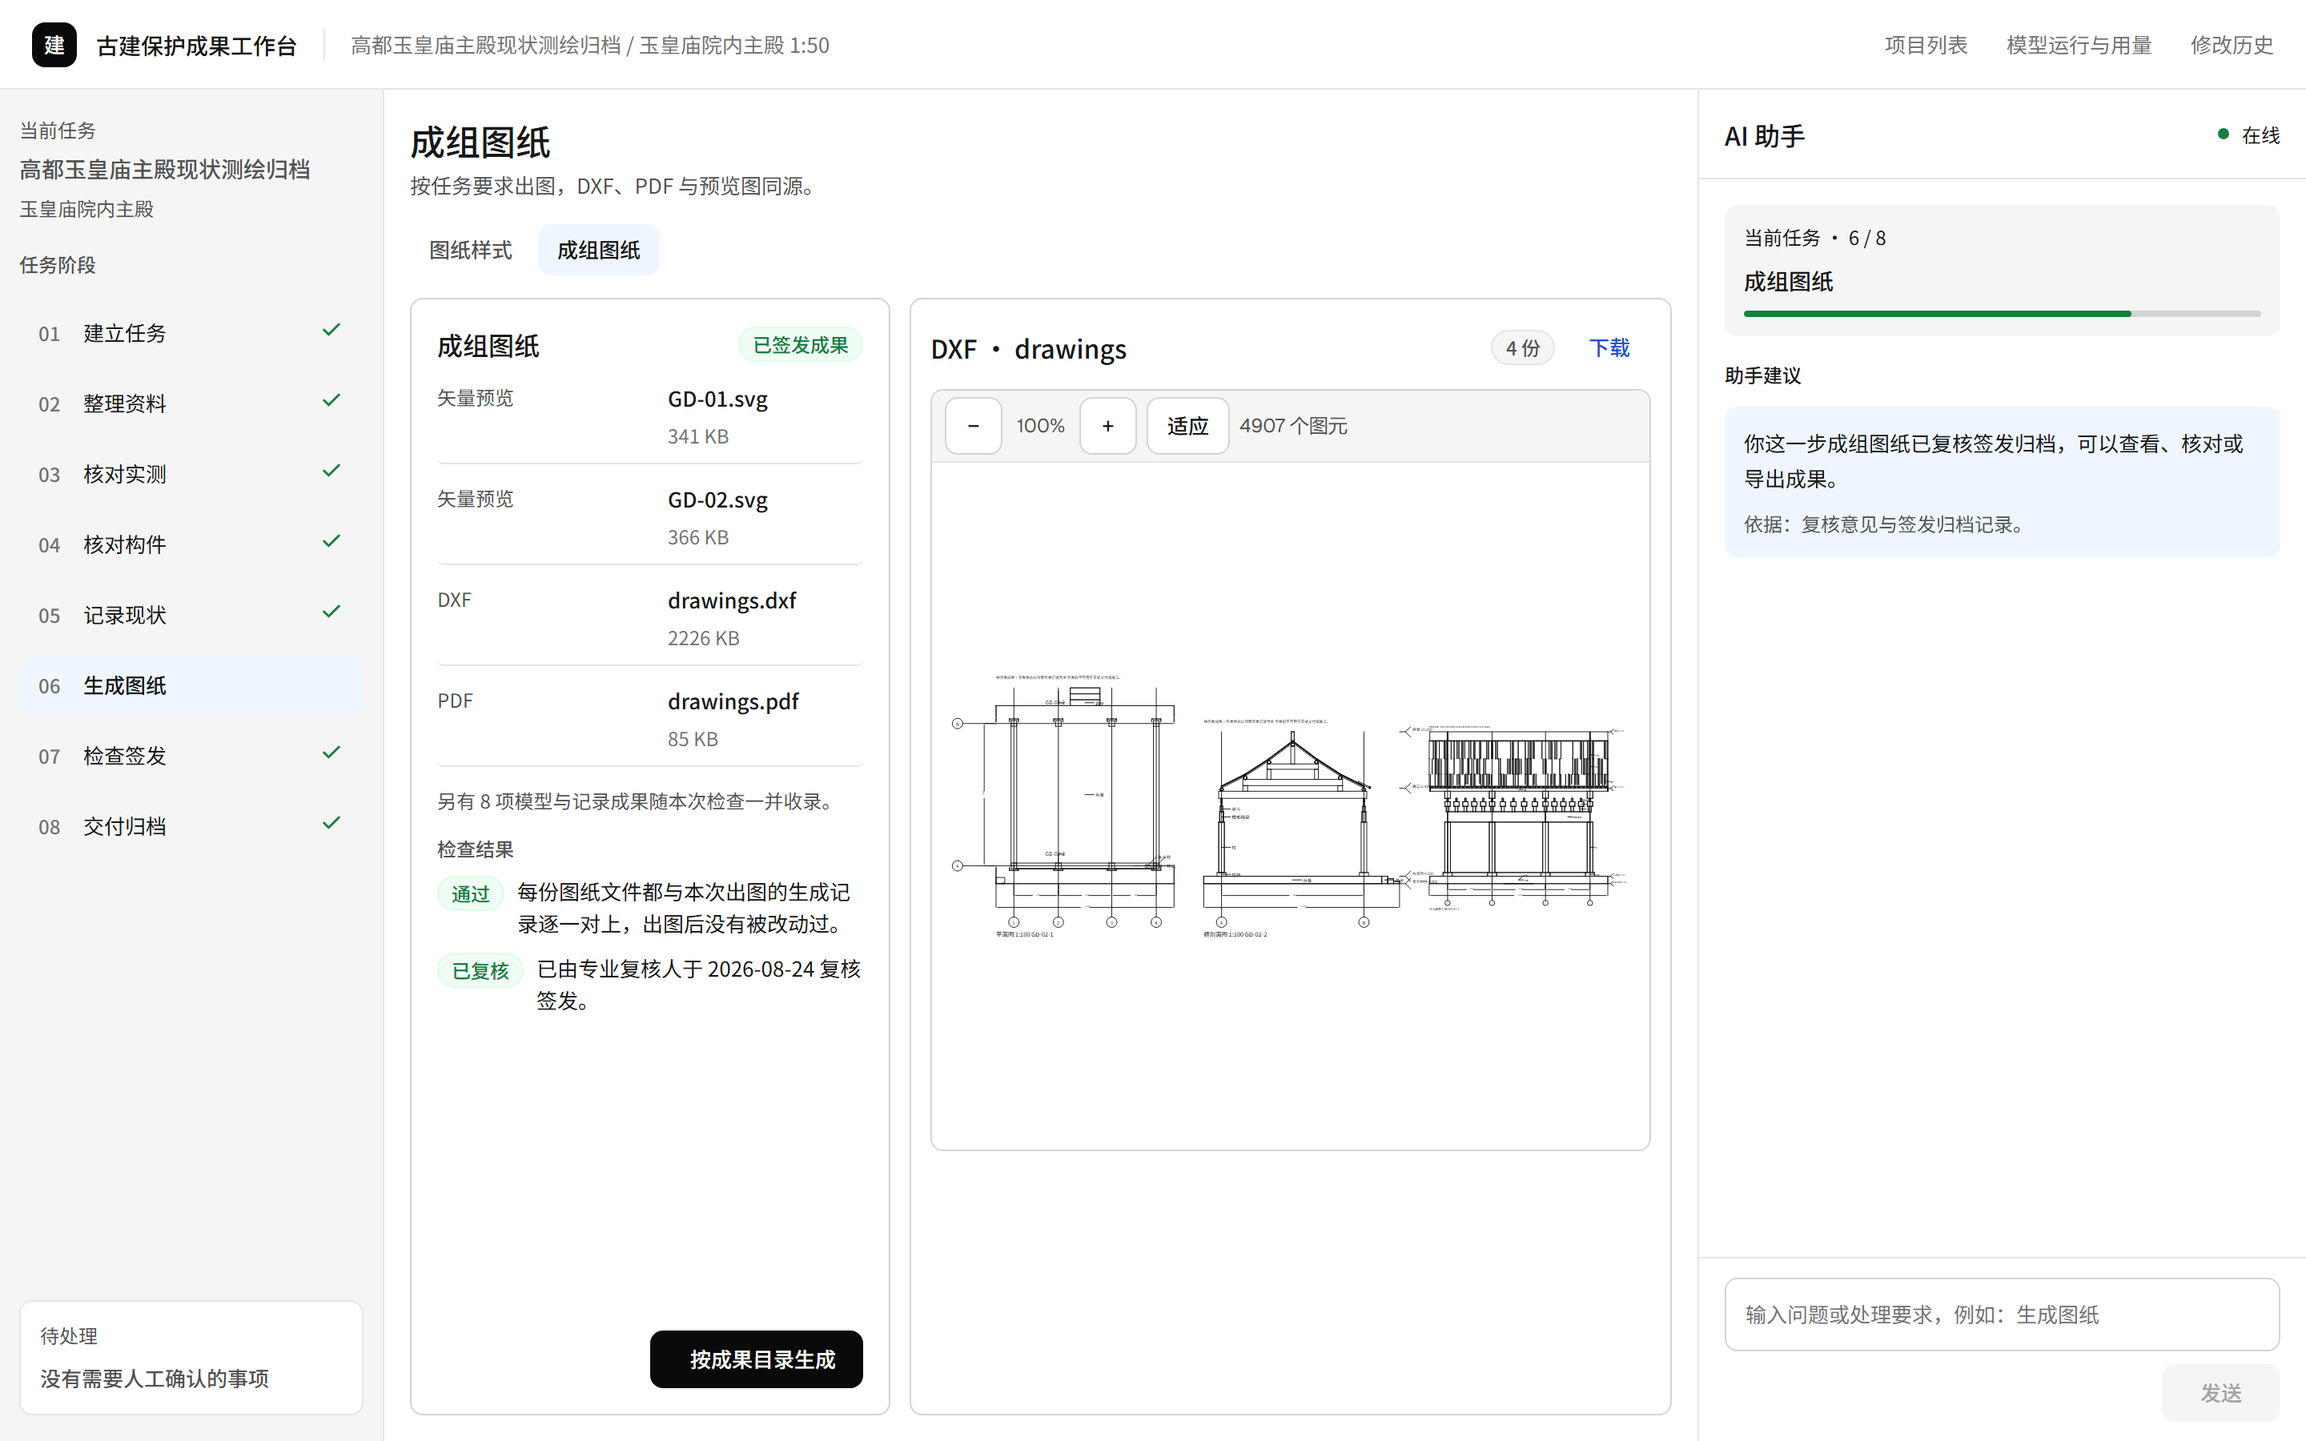
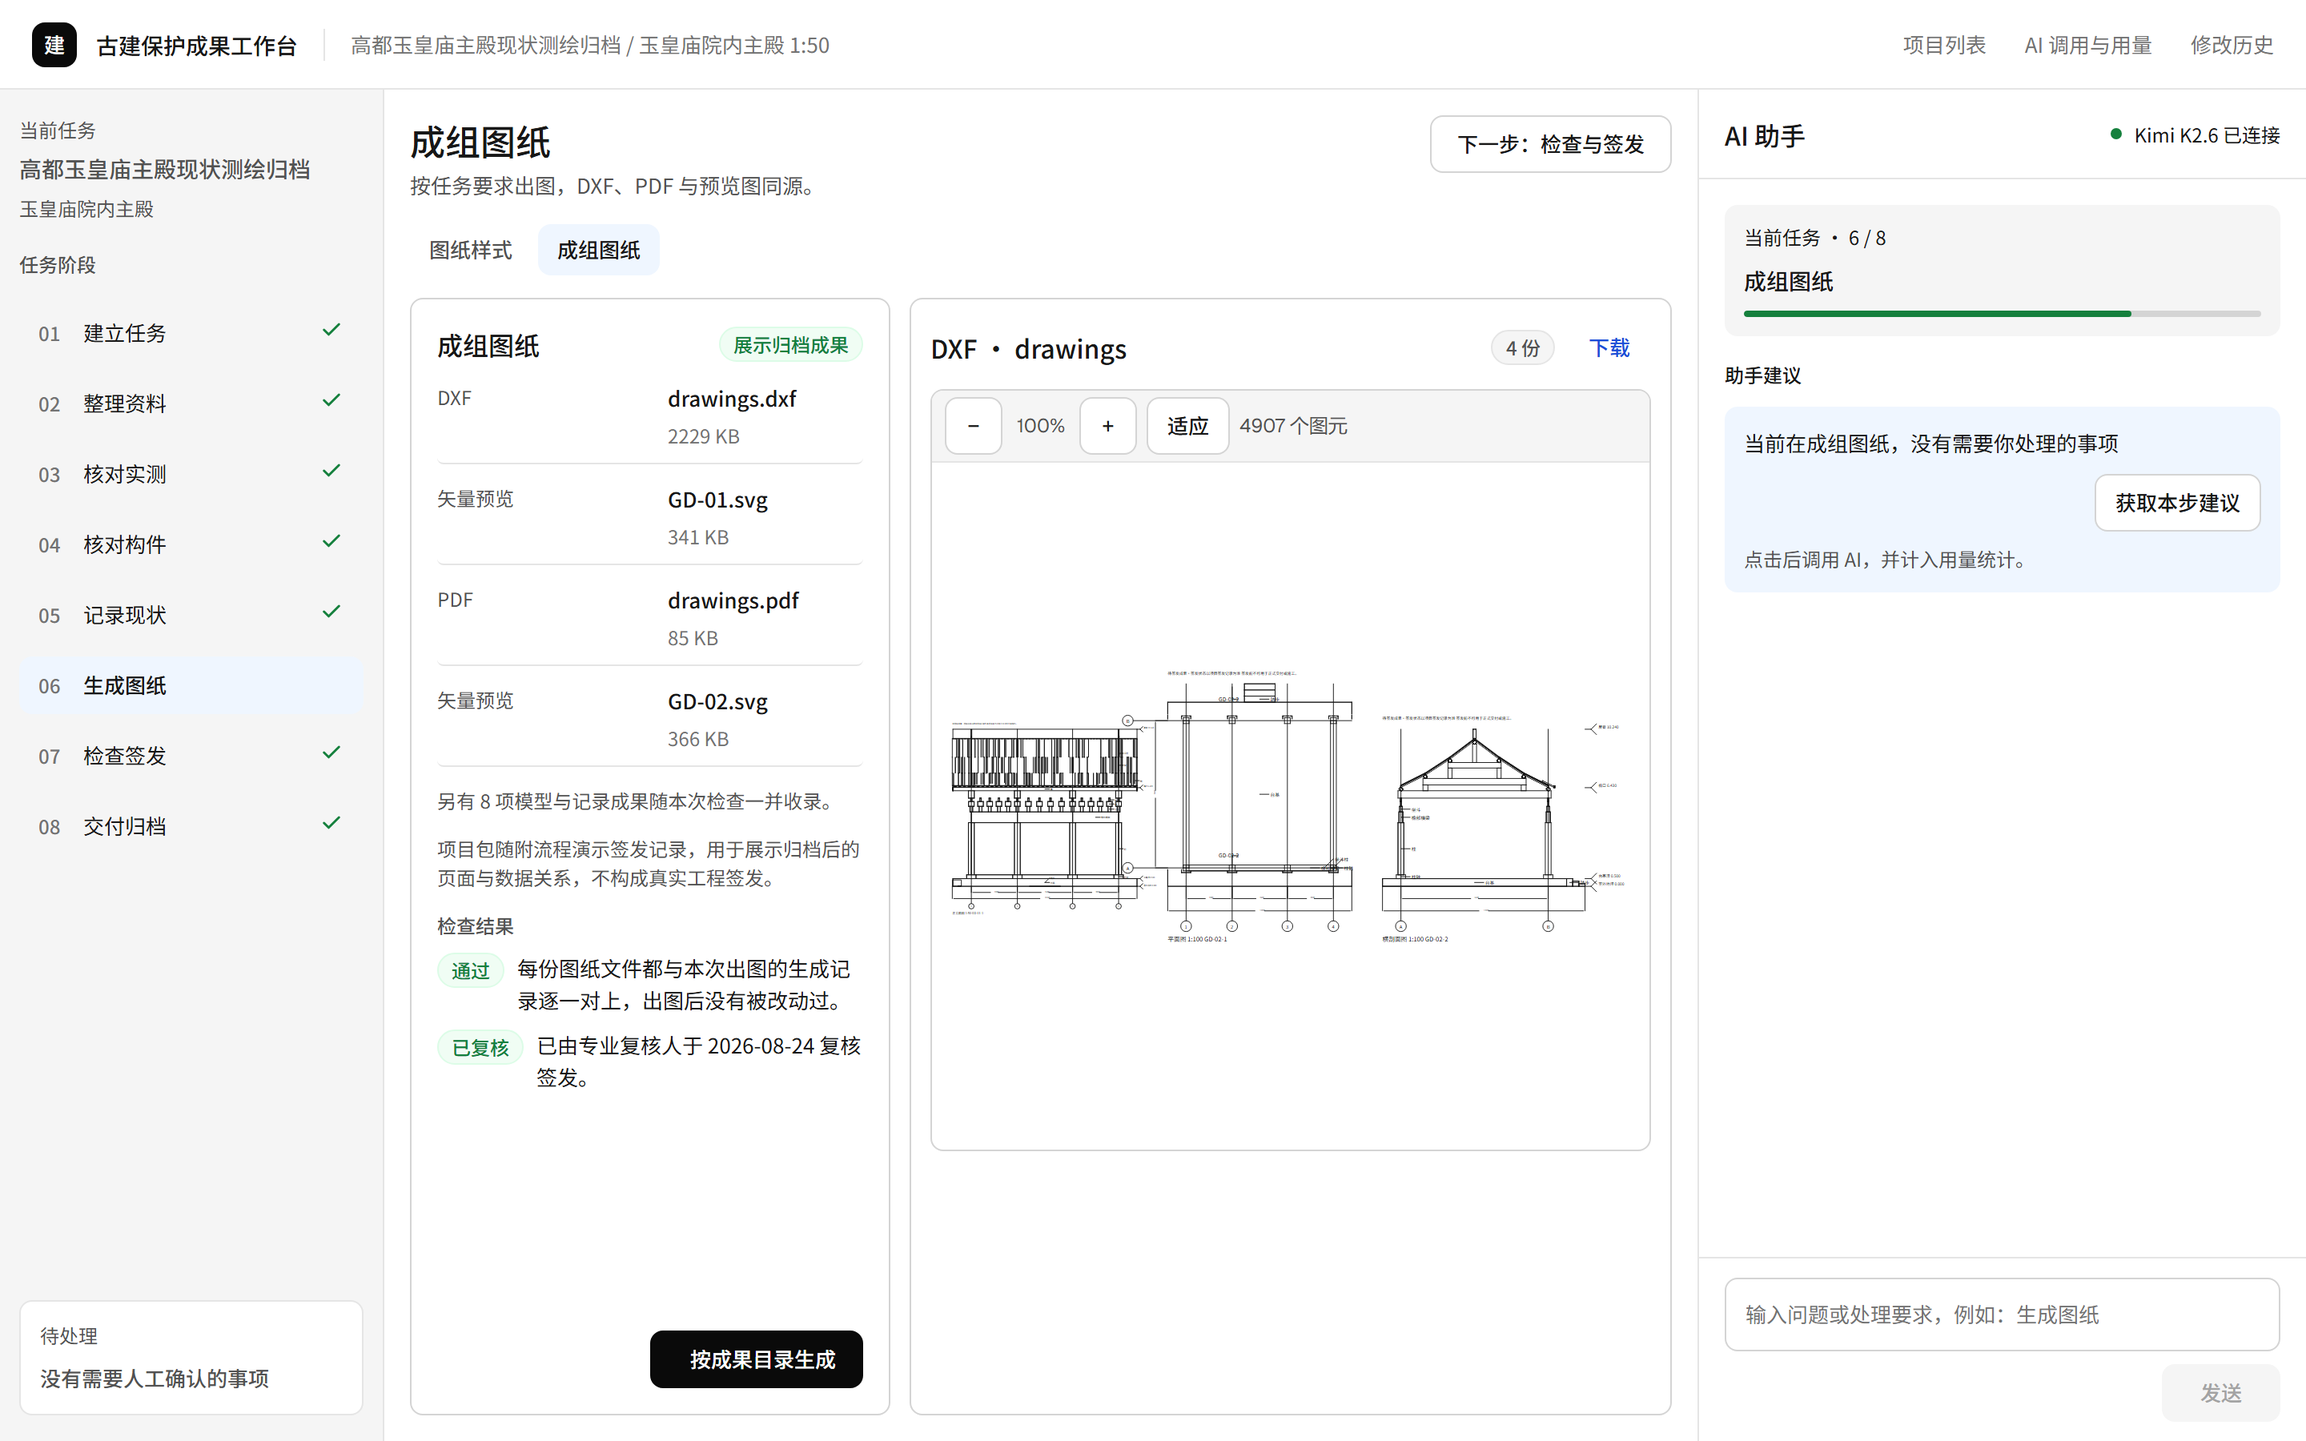
docs(product): 完成首次体验验证与README截图

diff --git a/packages/infrastructure/src/impact-real-packages.test.ts b/packages/infrastructure/src/impact-real-packages.test.ts
@@ -155,5 +155,5 @@ describe("依赖边字段恒为空（验收第 14 条）", () => {
     };
     walk(root);
     expect(hits, "依赖边只能推导，不能写入").toEqual([]);
-  });
+  }, 10_000);
 });

diff --git a/文档/05_验证证据/18_成功归档与用语层/首次使用与README复核.md b/文档/05_验证证据/18_成功归档与用语层/首次使用与README复核.md
@@ -1,0 +1,104 @@
+# 首次使用与 README 复核
+
+本轮复核确认，线上展示已能让第一次使用的测绘与文保成果生产人员理解产品用途，并沿高都项目完成从资料到归档的八阶段体验；展示数据与真实工程责任边界已在关键页面明确分开。
+
+日期：2026-08-25。线上地址：<https://heritage.jiajiajiang.com/>。验证版本：`a2fe50c`，分支 `codex/professional-workbench-rebuild`。
+
+## 一、核验依据
+
+本轮以核心 PRD 的目标用户、产品目标、当前范围和非目标为判断基准，不以页面是否能打开代替产品验收。
+
+| 判断项 | 依据 | 首次用户应得到的认识 |
+|---|---|---|
+| 目标用户 | 核心 PRD 2.1 | 产品服务于古建测绘、文保勘察和成果生产人员 |
+| 产品目标 | 核心 PRD 2.5 | 一栋建筑形成一份连续档案，同一份数据驱动模型、图纸、检查和归档 |
+| 责任关系 | 核心 PRD 3.4、4.5 | AI 提供理解与候选，程序生成确定性成果，专业人员确认和签发 |
+| 当前范围 | 核心 PRD 3.1 | 单栋建筑、本机单用户、完整成果生产链路 |
+| 非目标 | 核心 PRD 3.2 | 不代替现场测量、专业判断、法定签发或多人项目平台 |
+
+## 二、验证方法
+
+本轮同时使用自动巡检、真实线上操作和独立首次用户复查，避免只在开发环境或已有本机数据的浏览器中检查。
+
+1. 使用全新 Chrome 用户目录访问线上站点，等待两个展示项目首次装载。
+2. 从高都项目的建立任务开始，依次进入整理资料、核对实测、核对构件、记录现状、生成图纸、检查签发和交付归档。
+3. 实际打开照片、三维模型、DXF 和 PDF，并翻到 PDF 第二页。
+4. 先被动浏览，确认不会自动调用模型；再主动获取建议、提问通面阔，并查看 token 与费用变化。
+5. 抽查清式大木构造样板的结构化资料、完成状态和问题数量。
+6. 由独立产品设计验收角色使用另一份全新浏览器状态复查项目首页，不读取实现代码。该浏览器连接在进入项目后中断，因此项目内部结论以全新 Chrome 自动巡检和用户可见 Chrome 的逐项操作为准，不把本次独立复查表述为完整项目验收。
+
+## 三、首次使用结论
+
+第一次使用者现在可以从项目列表直接理解产品服务对象、主要输入、处理过程和结果，不必先阅读 PRD 才能开始。
+
+| 用户问题 | 页面给出的答案 | 结果 |
+|---|---|---|
+| 这是给谁用的 | 项目列表说明面向古建测绘与文保成果生产人员 | 通过 |
+| 产品处理什么 | 资料、实测、模型、图纸和归档成果处于同一条可追溯流程 | 通过 |
+| 从哪里开始 | 高都项目卡提供进入任务，进入后默认停在建立任务 | 通过 |
+| 下一步做什么 | 左侧八阶段与页面顶部下一步按钮共同提示 | 通过 |
+| 是否为真实工程数据 | 项目列表、任务卡、检查签发和归档页均说明展示数据边界 | 通过 |
+| 谁承担专业责任 | 本机不能签发；随包记录明确为流程演示记录，不构成真实工程签发 | 通过 |
+| 能得到什么结果 | 可查看三维模型、SVG、DXF、PDF、检查记录和成果包 | 通过 |
+
+首次装载增加了清单先显示、分包载入、单包重试、缺失项目自动补载和非破坏性继续载入入口。短暂下载失败时保留已成功装载的项目，只补齐缺少的项目，不再要求用户清空本机数据。
+
+全新 Chrome 实测中，两个项目的名称、规模和数据边界在 5.2 秒出现，高都项目在 55.4 秒可进入，两个完整项目在 127.4 秒载入完毕。首次项目包约 42 MB，当前体验已经从全量等待改为先理解范围、再分步进入，但首次完整载入仍偏慢。后续应拆分模型与图纸资源，并使用对象存储或 CDN 按需加载。
+
+## 四、PRD 一致性
+
+展示项目能够表达 PRD 的核心价值，但不会把当前验证范围包装成已经具备生产系统责任。
+
+| PRD 主张 | 可见体验 | 结果 |
+|---|---|---|
+| 一栋建筑一份档案 | 同一项目贯穿任务、资料、尺寸、构件、模型、图纸与归档 | 通过 |
+| 同一数据驱动多种成果 | 9600 mm 实测记录、三维模型、图纸与成果清单连续出现 | 通过 |
+| 来源可追溯 | 尺寸显示资料、测量方法和确认状态；构件显示具体资料名称 | 通过 |
+| AI、程序与人工分工 | 助手按项目记录回答；程序生成模型和图纸；签发按钮在本机禁用 | 通过 |
+| 文件直接查看 | 图片、SVG、DXF 与 PDF 均在页内查看，PDF 支持翻页 | 通过 |
+| 修改可追踪 | 修改历史显示操作人、动作、写入数量和下游影响 | 通过 |
+| 不代替真实工程责任 | 展示归档明确不可用于工程交付，不显示使用限制为无 | 通过 |
+
+## 五、AI 与用量核验
+
+AI 功能已证明是受用户控制的真实模型调用，不是固定文案或被动页面请求。
+
+- 被动浏览八阶段时，建议调用数保持为 0。
+- 点击获取本步建议后，建议次数增加 1。
+- 提问项目通面阔后，助手根据项目尺寸记录回答 9600 mm，并说明依据。
+- AI 调用与用量页显示模型 `kimi-k2.6`、真实调用次数、token 用量与估算费用。
+- 页面说明服务器当日汇总和项目内运行明细的统计范围，费用按公开单价估算。
+
+当前用量页是服务器当日汇总，不是访问者会话账单。该限制已在页面说明，后续若进入多人生产环境，应改为按组织、项目和调用主体分账。
+
+## 六、README 与截图
+
+README 已按专业开源产品的阅读顺序重组，先说明定位、在线体验和主要结果，再提供首次路径、特色能力、边界、架构、运行与文档入口。
+
+参考样本均为官方 GitHub 仓库：[Dify](https://github.com/langgenius/dify)、[AppFlowy](https://github.com/AppFlowy-IO/AppFlowy)、[Plane](https://github.com/makeplane/plane)、[Immich](https://github.com/immich-app/immich)。可迁移的共同做法是把一句话定位、在线入口和结果截图前置，把安装、架构、范围、安全与许可放在后续章节。
+
+最终截图统一使用英文序号文件名，文件名描述功能，不使用页面内部编号。
+
+| 文件 | 证明的产品能力 |
+|---|---|
+| `01-project-overview.png` | 目标用户、产品价值、两个展示项目与数据边界 |
+| `02-survey-data-traceability.png` | 实测记录、照片、确认状态与形制基准 |
+| `03-traceable-3d-model.png` | 构件化三维模型与对象树 |
+| `04-in-browser-dxf-viewer.png` | DXF 页内查看与图元统计 |
+| `05-review-and-signoff.png` | 自动检查、流程演示签发与真实责任边界 |
+| `06-deliverable-archive.png` | 多格式成果、来源说明和展示归档 |
+| `07-grounded-ai-assistant.png` | 助手按项目记录回答 9600 mm |
+| `08-ai-token-usage-and-cost.png` | 真实调用、token 与估算费用 |
+| `09-audit-history-and-impact.png` | 修改历史与下游影响范围 |
+
+## 七、当前边界
+
+当前版本可以用于完整产品展示和单机流程验证，但不能作为真实工程生产系统对外承诺。
+
+- 展示实测值用于产品体验，不替代现场实测。
+- 流程演示签发记录只说明展示链路完成，不构成真实工程签发或交付资格。
+- 浏览器本机项目库不支持多人实时协作、组织权限或服务端统一档案管理。
+- 生产环境需要补充身份、权限、服务端项目库、数字签名和正式责任流程。
+- 当前展示包首次完整载入约 42 MB，弱网环境下仍可能等待较长时间。
+
+最终全新浏览器巡检覆盖两个项目共 26 个页面，页面异常 0、空页面 0、控制台错误 0。独立角色完成了项目首页的首次理解复查；项目内部的最终验收由全新 Chrome 巡检和用户可见 Chrome 操作共同完成。

diff --git a/文档/04_实施单元/09_成功归档与用语层/验收.md b/文档/04_实施单元/09_成功归档与用语层/验收.md
@@ -6,7 +6,7 @@
 
 | 序 | 条件 | 结果 |
 |---:|---|---|
-| 1 | 三个演示项目打开后：缺失资料 0、未关闭问题 0、模型未知项 0、检查全部通过、交付带复核签发记录、成果状态显示为已签发可正式交付 | **通过**，三个演示包缺失资料 0、未关闭问题 0、检查通过、带正式环境复核签发记录（`check-demo-packages` 输出见证据 `18_成功归档与用语层/实测记录.md` 第二节）；高都与 Dai Loy 模型待确认部位 0。**与条件原文不同**：构造样板模型保留 909 条构件级翻译近似说明，由签发记录逐项接受，界面显示为建模说明（复核已接受），不再作为待确认项。把翻译近似改写成零需要重做几何契约，签发记录如实接受比抹掉更诚实 |
+| 1 | 三个演示项目打开后：缺失资料 0、未关闭问题 0、模型未知项 0、检查全部通过、交付带复核签发记录、成果状态显示为已签发可正式交付 | **通过后修订展示口径**，三个演示包缺失资料 0、未关闭问题 0、检查通过，并带正式构建环境生成的签发记录（`check-demo-packages` 输出见证据 `18_成功归档与用语层/实测记录.md` 第二节）。2026-08-25 首次使用复核发现，展示数据与可正式交付并列会造成责任边界冲突，因此界面改为流程演示签发记录、展示流程已归档和不可用于工程交付。构造样板模型保留 909 条构件级翻译近似说明，由随包记录逐项接受，界面显示为建模说明，不再作为待确认项。 |
 | 2 | 项目列表顺序为高都、团队样板、Dai Loy，三张卡都有封面 | **通过**，列表顺序高都、构造样板、Dai Loy（按项目建立日期升序）；高都与 Dai Loy 封面为现场照片，构造样板封面为第一张图纸 SVG（截图 `17_十九屏重做/截图/P01_项目列表.png`） |
 | 3 | 高都的实测记录有测量人、日期、仪器、方法，数值与照片比例一致，资料里注明演示设定值 | **通过**，`03_公开实测样本/高都玉皇庙/现场实测记录.csv` 28 条，逐条有部位、数值、仪器、方法、测量人、记录人、日期；表尾与资料权利声明注明演示设定值；数值与照片比例一致（柱高 3400、明间 3600、脊高 7200 等沿用照片比例推算值并升为实测口径） |
 | 4 | 本机新建项目仍不能签发：命令服务拒绝本机环境的签发记录，界面没有签发入口 | **通过**，`LocalAuthorization` 拒绝 `RecordReviewSignoff`（`authorization.test.ts`）；界面上签发按钮为禁用态并注明签发须在正式环境完成；演示包构建走 `FormalEnvironmentAuthorization`，仅 `tools/build-demo-packages.mjs` 使用 |

diff --git a/文档/05_验证证据/18_成功归档与用语层/实测记录.md b/文档/05_验证证据/18_成功归档与用语层/实测记录.md
@@ -6,9 +6,11 @@
 
 **2026-08-25 更新**：Dai Loy 从演示库下架（JIAJIA 定，见 04 演示项目定义 v2.1），装载清单收为高都与构造样板两个项目；其定义与素材保留为泛化测试样本，本文第二节涉及它的历史数字不改写。
 
+**2026-08-25 首次使用复核**：界面把展示项目的随包记录统一改称流程演示签发记录，并明确不构成真实工程签发或交付资格；检查页不再显示展示项目可正式交付或使用限制为无，归档页改为展示流程已归档。首次装载增加清单先显示、分步可用、下载重试、缺失项目自动补载和非破坏性继续载入入口。完整记录见同目录《首次使用与 README 复核》。
+
 ## 一、结论
 
-三个演示项目重建为归档完成的项目：资料无缺失、问题为零、高都与 Dai Loy 模型无待确认部位、检查通过、带正式环境的复核签发记录，界面按已签发显示。助手的建议与回答都由模型按项目现状生成，三个验收问题全部答对。图片、PDF（含 JBIG2 扫描件）、SVG、DXF 在页内可看。三个项目逐屏巡检 0 异常 0 控制台错误。
+三个演示项目重建为归档完成的项目：资料无缺失、问题为零、高都与 Dai Loy 模型无待确认部位、检查通过，并带正式构建环境生成的签发记录。当前界面把展示项目中的记录显示为流程演示签发记录，不构成真实工程签发或交付资格。助手的建议与回答都由模型按项目现状生成，三个验收问题全部答对。图片、PDF（含 JBIG2 扫描件）、SVG、DXF 在页内可看。三个项目逐屏巡检 0 异常 0 控制台错误。
 
 ## 二、演示包
 
